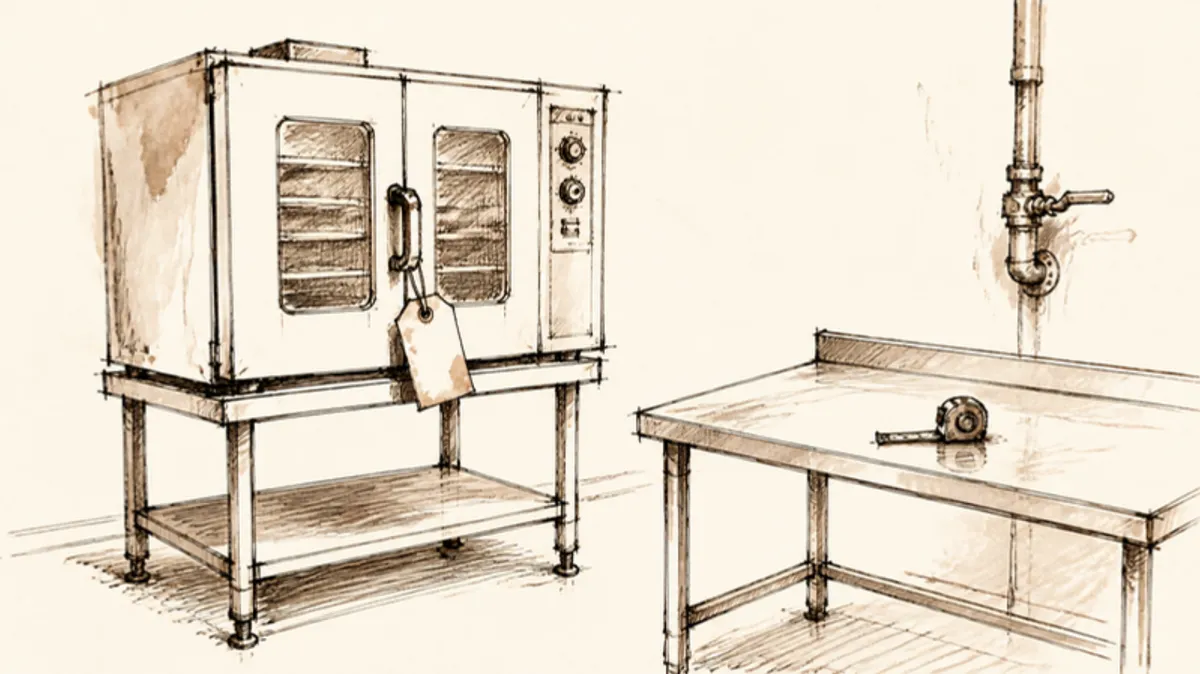
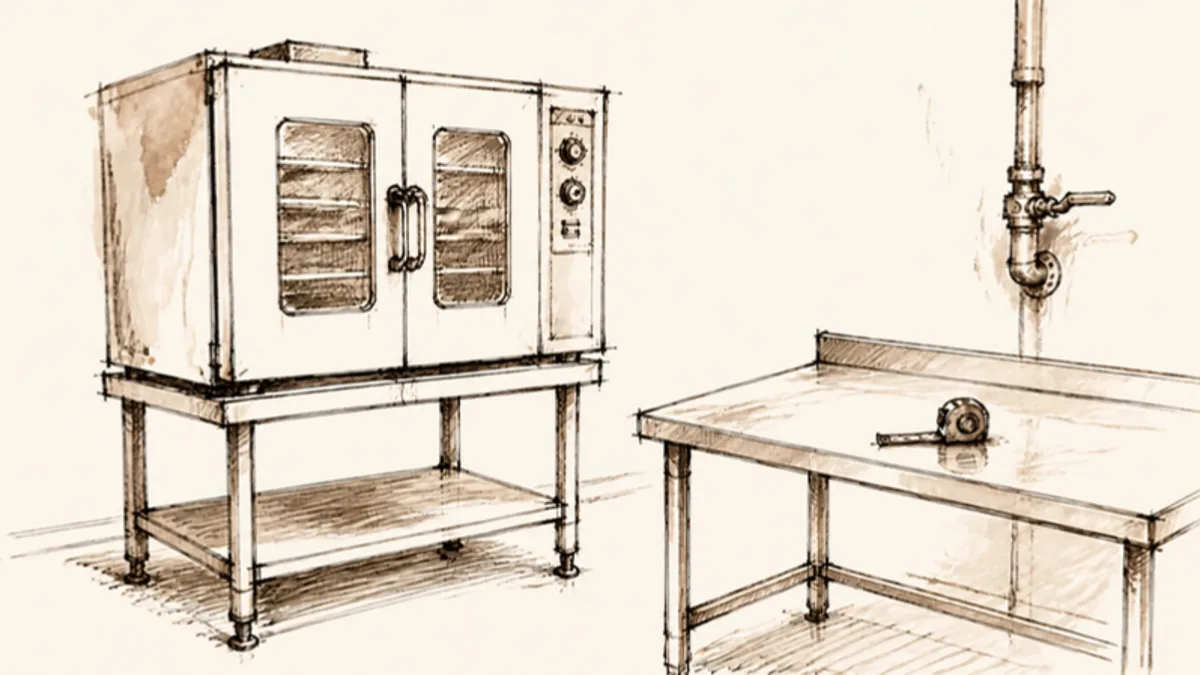
中古の厨房機器の記事の挿絵から、ぶら下がった札を消す

diff --git a/content/posts/used-commercial-kitchen-equipment.md b/content/posts/used-commercial-kitchen-equipment.md
@@ -26,7 +26,7 @@ picks:
 
 開業の準備をしていると、厨房機器の見積もりを見て、思わず手が止まってしまうことがありますよね。オーブン、冷蔵庫、製氷機と、業務用の機材は1つひとつが大きな出費です。
 
-![保証の札をつけた中古の業務用オーブンと、ステンレスの作業台の上のメジャー、壁のガス管のイラスト](/images/posts/used-commercial-kitchen-equipment-1.webp)
+![中古の業務用オーブンと、ステンレスの作業台の上のメジャー、壁のガス管のイラスト](/images/posts/used-commercial-kitchen-equipment-1.webp)
 
 そんなときの選択肢が、**中古の業務用機材**です。条件を確かめて選べば、開業の費用を抑えながら、お店に必要な機材をそろえられます。この記事では、中古の厨房機器を選ぶときに確かめたいことをまとめます。
 
